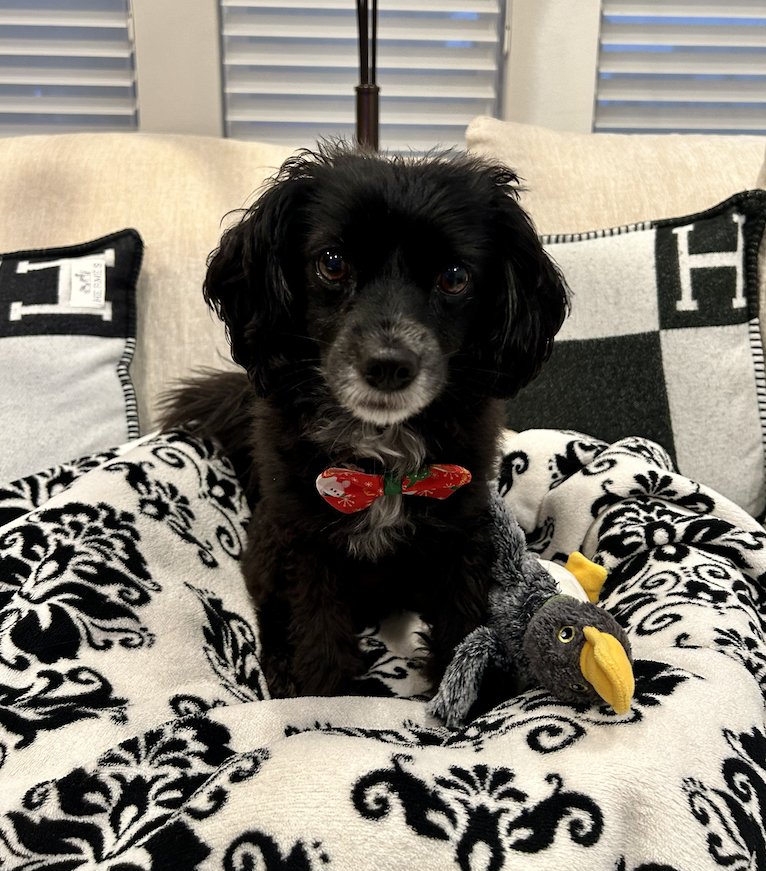
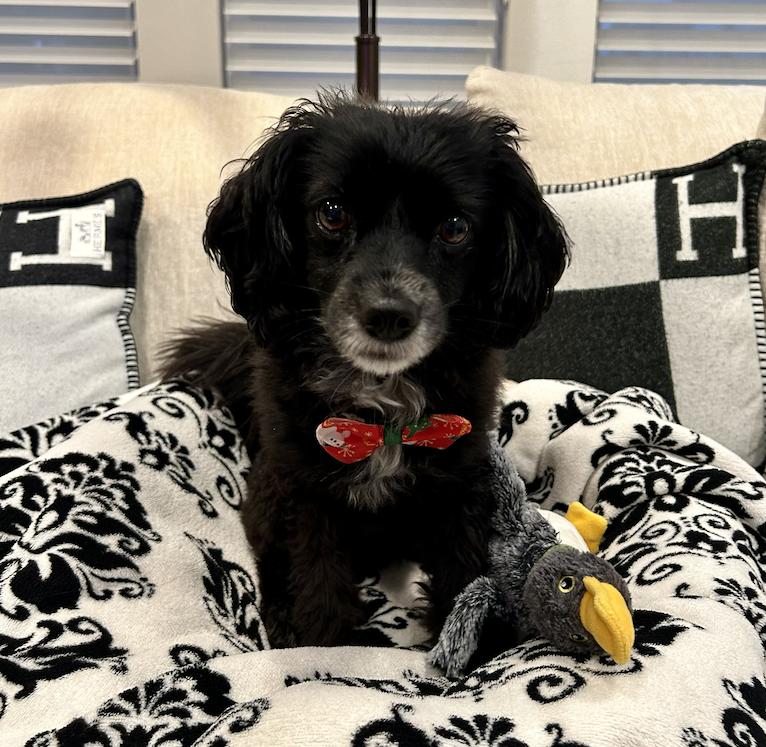
cropped image again, moved all the titles in the pages to align

diff --git a/style.css b/style.css
@@ -25,7 +25,8 @@ body {
 nav {
   /* Lay the links out in a row */
   display: flex;
-  margin-bottom: 1em;
+  /* Space between the nav and the page title, the same on every page */
+  margin-bottom: 3.2em;
   /* Subtle gray line separating the nav from the page content */
   border-bottom: 1px solid oklch(80% 3% 200);
 }
@@ -86,6 +87,8 @@ form button {
 h1 {
   /* Make the page title clearly bigger than the h2s */
   font-size: 300%;
+  /* The nav's bottom margin already sets the space above the title */
+  margin-top: 0;
 }
 
 h1,
@@ -125,8 +128,6 @@ h6 {
   display: flex;
   align-items: start;
   gap: 2em;
-  /* Space between the nav and the title + photo */
-  margin-top: 4.4em;
   /* Let the photo drop below the text when there isn't room for both */
   flex-wrap: wrap;
 }
@@ -136,12 +137,6 @@ h6 {
      but never gets squeezed narrower than 15em */
   flex: 1;
   min-width: 15em;
-}
-
-.intro h1 {
-  /* Drop the heading's built-in top margin so the title itself, not the
-     empty space above it, lines up with the top of the photo */
-  margin-top: 0;
 }
 
 .intro img {
